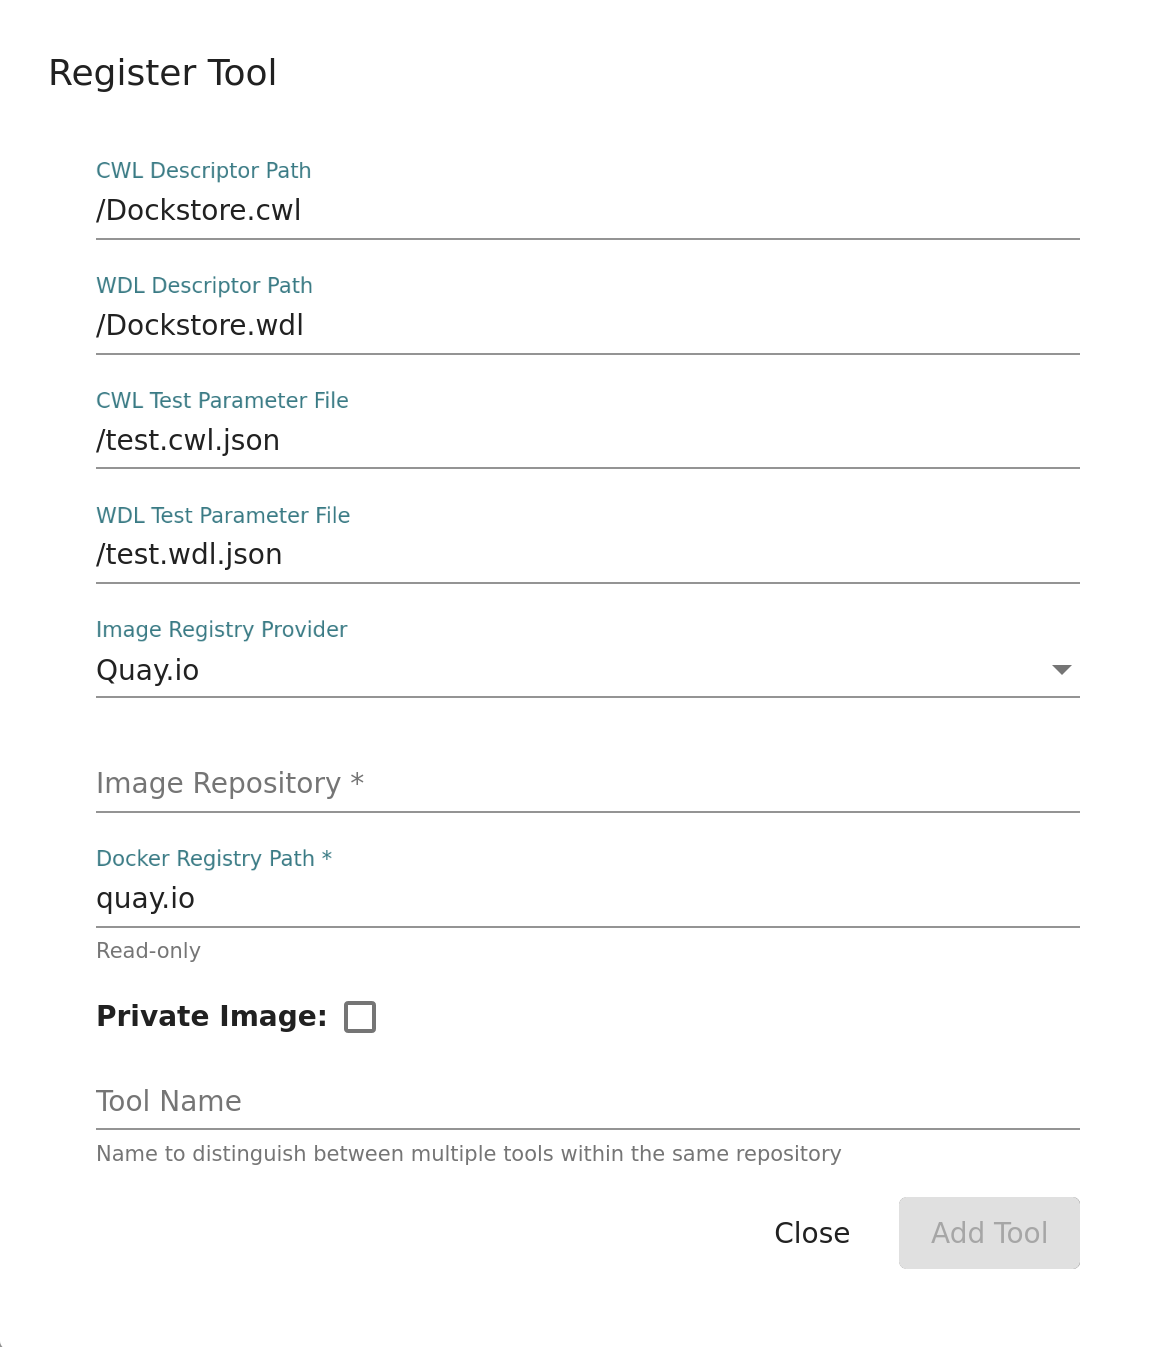
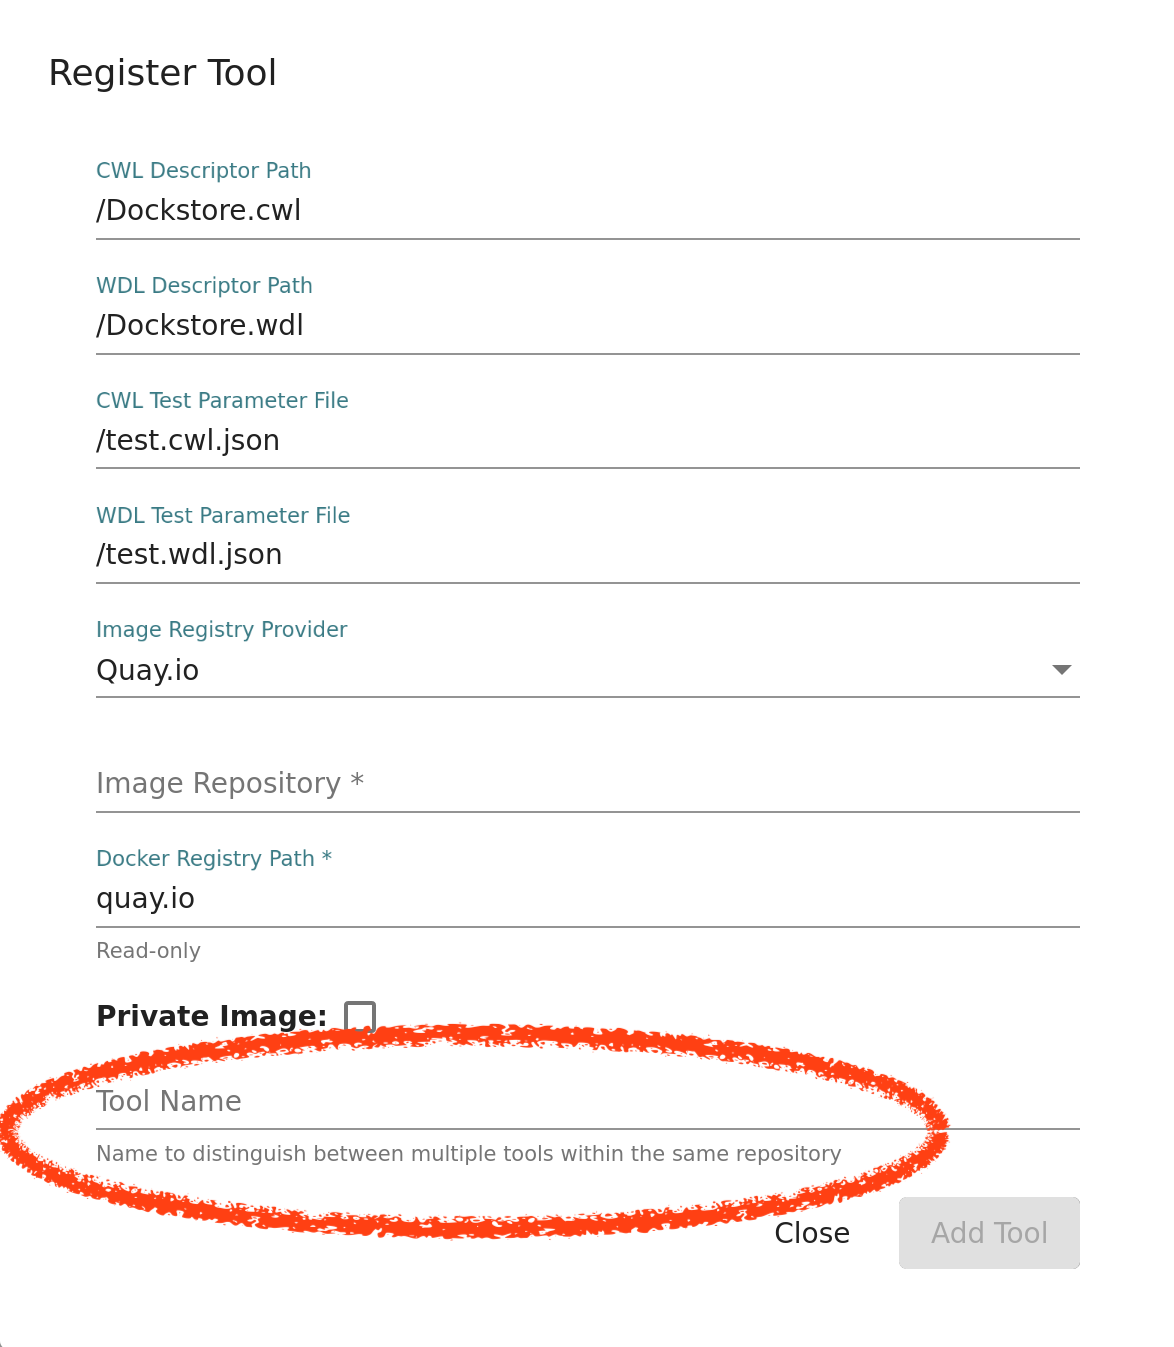
Edit an image for clarity, remove old examples, better templates

Changed region(s): [[0.0, 0.7483, 0.8279, 0.9354]]

diff --git a/docs/getting-started/github-apps/github-apps.rst b/docs/getting-started/github-apps/github-apps.rst
@@ -35,7 +35,7 @@ creating a new release, the GitHub app issues notifications.
 Why have a Dockstore GitHub App?
 --------------------------------
 
-Without a GitHub app, Dockstore does not know when you have modified a GitHub
+Without a GitHub App, Dockstore does not know when you have modified a GitHub
 repository.
 
 For example, take the case when you first add a workflow to Dockstore
@@ -48,7 +48,7 @@ to the GitHub repo, and manually refreshing the tool/workflow by either clicking
 the Refresh button or making an API call to the Dockstore API.
 
 Due to the manual nature of this process, it is easy for Dockstore to get out of
-sync with the linked GitHub repository.
+sync with the linked GitHub repository if the Dockstore GitHub App is not being used.
 
 How the Dockstore GitHub App works
 ----------------------------------
@@ -86,52 +86,32 @@ Workflow YML File
 ++++++++++++++++++
 For a workflow, the ``.dockstore.yml`` has the following general structure:
 
-.. include:: /assets/templates/workflows/barebones-.dockstore.yml
+.. include:: /assets/templates/workflows/template-minimum.dockstore.yml
   :code: yaml
 
-As an example, here is a filled-out ``.dockstore.yml`` for a single CWL workflow.  Note that the name is not present since the name field is optional when only a single workflow is involved.
+As an example, here is a filled-out ``.dockstore.yml`` for a single WDL workflow which happens to have more than one test parameter file.  Note that the name is not present since the name field is optional when only a single workflow is involved.
 
-.. code:: yaml
-
-   version: 1.2
-   workflows:
-      - subclass: CWL
-        primaryDescriptorPath: /Dockstore.cwl
-        testParameterFiles:
-            - /test/dockstore.cwl.json
-
-A common pattern seen on Dockstore is GitHub repositories that store many workflows. The below ``.dockstore.yml``
-has two entries for workflows. Notice that each entry uses a different name. Names are required if you want 
-multiple workflows registered on Dockstore from a single GitHub repository. The names must be unique between
-entries of the `workflows` array. For each unique name present, an entry will be created on Dockstore.
+.. include:: /assets/templates/workflows/example-1-noname.yml
+  :code: yaml
 
 .. important:: Though the **name** field is optional when a ``.dockstore.yml`` has one workflow in it,
     it must be used when a ``.dockstore.yml`` has multiple workflows in it. Each entry within a ``.dockstore.yml``
     file corresponds to a unique entry on Dockstore.
 
-.. include:: /assets/templates/workflows/barebones-multiple.dockstore.yml
-  :code: yaml
-
-For more examples, please see :doc:`our .dockstore.yml templates and examples for workflows</assets/templates/workflows/workflows>`.
+For more examples, including multi-workflow examples and a complete breakdown of all possible fields, please see :doc:`our .dockstore.yml templates and examples for workflows</assets/templates/workflows/workflows>`.
 
 Tool YML File
 +++++++++++++
-The ``.dockstore.yml`` file for a tool is very similiar in structure to that of a workflow. Here's a simple example:
+The ``.dockstore.yml`` file for a tool is very similiar in structure to that of a workflow.
 
-.. code:: yaml
+.. include:: /assets/templates/tools/template-minimum.dockstore.yml
+  :code: yaml
 
-   version: 1.2
-   tools:
-      - subclass: CWL
-        primaryDescriptorPath: /Dockstore.cwl
-        testParameterFiles:
-            - /test.json
-
-For more examples, please see :doc:`our .dockstore.yml templates and examples for tools</assets/templates/tools/tools>`.
+For more examples, including multi-workflow examples and a complete breakdown of all possible fields, please see :doc:`our .dockstore.yml templates and examples for tools</assets/templates/tools/tools>`.
 
 Service YML File
 +++++++++++++++++
-A template ``.dockstore.yml`` file for registering services, with explanations in the comments, can be found in our :doc:`Service 1.2 Template </assets/templates/template>`. For more info on services and registering them, check out our :doc:`Getting Started with Services </getting-started/getting-started-with-services>`.
+The ``.dockstore.yml`` for a service will depend heavily on the nature of the service it describes. A template ``.dockstore.yml`` file for registering services, with explanations in the comments, can be found in our :doc:`Service 1.2 Template </assets/templates/template>`. For more info on services and registering them, check out our :doc:`Getting Started with Services </getting-started/getting-started-with-services>`.
 
 See Also
 --------

diff --git a/docs/getting-started/github-apps/migrating-tools-to-github-apps.rst b/docs/getting-started/github-apps/migrating-tools-to-github-apps.rst
@@ -45,14 +45,8 @@ Let's say we have the following CWL tool registered on Dockstore that came from 
 
 As noted in our other documentation, create a ``.dockstore.yml`` file in the root directory of the branch you want to migrate (in this example, it's the master branch) in your repository. The file should look like the following:
 
-.. code:: yaml
-
-   version: 1.2
-   tools:
-      - subclass: CWL
-        primaryDescriptorPath: /Dockstore.cwl
-        testParameterFiles:
-            - /test.json
+.. include:: /assets/templates/tools/example-1-noname.yml
+  :code:
 
 The information above was filled out using the following:
 
@@ -65,38 +59,24 @@ The ``name`` Field
 
 If you have more than one tool in the same repository, the ``name`` field must be filled out for at least one of the tools to ensure that the tool paths are unique.
 
-During the original registration for your tool, you may have filled out the ``Tool Name`` field shown in the picture below.
+If you registered your tool using the Web UI, you may have filled out the ``Tool Name`` field shown in the picture below.
 
 .. figure:: /assets/images/docs/tool-name-field.png
    :alt: Tool name field
    :width: 60 %
 
 This field is required when you want to register multiple tools from the same repo or provide multiple languages for your tool, but you may have filled it out for other reasons. 
-To check if the tool you want to migrate has a tool name, select the tool and look at the title on top as shown in the picture below.
-
-The title consists of:
+To check if the tool you want to migrate has a tool name, select the tool's entry on Dockstore and look at the title on top. The title consists of:
 ``<image registry>/<organization name>/<repository name>/<optional tool name>:<version name>``
 
 If you see a tool name inserted, you must include the name field in your ``/.dockstore.yml``.
 
-.. code:: yaml
+.. include:: /assets/templates/tools/example-2-name.yml
+  :code:
 
-   version: 1.2
-   tools:
-      - subclass: CWL
-        primaryDescriptorPath: /Dockstore.cwl
-        testParameterFiles:
-            - /test.json
-        name: optional-name
+If you have multiple tools registered on Dockstore that stem from the same GitHub repo, a single ``.dockstore.yml`` can be used to convert them. For examples of this, check out our :doc:`template .dockstore.yml files <assets/templates/tools/tools>`
 
-If you have multiple tools registered on Dockstore that stem from the same GitHub repo, a single ``.dockstore.yml`` can be used to convert them.
-Again, you need to check for the ``Tool Name`` field being set because it's needed for multi tool repositories to ensure that the tool paths on Dockstore are unique.
-
-Let's say we want to convert these two tools that come from this `repository <https://github.com/dockstore/dockstore-tool-bamstats>`__.
-
-.. image:: /assets/images/docs/github-apps-multiple-tools.png
-
-.. image:: /assets/images/docs/github-apps-multiple-tools-with-name.png
+.. decided to remove /assets/images/docs/github-apps-multiple-tools.png and /assets/images/docs/github-apps-multiple-tools-with-name.png as the filenames within them are a little confusing; may be worth doing something like that but with globalAligner and localAligner later
 
 Your New Entry in Dockstore
 ---------------------------

diff --git a/docs/assets/templates/workflows/workflows.rst b/docs/assets/templates/workflows/workflows.rst
@@ -2,19 +2,31 @@
 ====================================================
 Several templates and examples are provided here for you to reference for your own .dockstore.yml files. The last example provides a complete explanation of the possible fields and values you can use.
 
+.. filled-out examples based on DataBiosphere/analysis_pipeline_wdl
+
 Simple generic template for a workflow
 --------------------------------------
-.. include:: /assets/templates/workflows/barebones-.dockstore.yml
+.. include:: /assets/templates/workflows/template-minimum.dockstore.yml
+  :code:
+
+Filled-out example of a single workflow without a name
+------------------------------------------------------
+.. include:: /assets/templates/workflows/example-1-noname.yml
+  :code:
+
+Filled-out example of a single workflow with a name
+---------------------------------------------------
+.. include:: /assets/templates/workflows/example-2-name.yml
   :code:
 
 Filled-out example of multiple workflows in the same repository
 ---------------------------------------------------------------
-.. include:: /assets/templates/workflows/barebones-multiple.dockstore.yml
+.. include:: /assets/templates/workflows/example-3-multiworkflow-multiauthor.dockstore.yml
   :code:
 
 Full template with explanation of all available fields
 ------------------------------------------------------
-.. include:: /assets/templates/workflows/.dockstore.yml
+.. include:: /assets/templates/workflows/template-maximum.dockstore.yml
   :code:
   
 
@@ -24,5 +36,5 @@ See Also
 --------
 
 * :doc:`.dockstore.yml templates for registering services </assets/templates/services/services>`
-* :doc:`.dockstore.yml templates for registering tools </assets/templates/tools/tools>`
+* :doc:`.dockstore.yml templates for registering workflows </assets/templates/workflows/workflows>`
 * :doc:`Other documentation regarding the GitHub App </getting-started/github-apps/github-apps-landing-page>`

diff --git a/docs/assets/templates/tools/tools.rst b/docs/assets/templates/tools/tools.rst
@@ -2,19 +2,31 @@
 ================================================
 Several templates and examples are provided here for you to reference for your own .dockstore.yml files. The last example provides a complete explanation of the possible fields and values you can use.
 
+.. The globalAligner/localAligner example does not seem to correspond to any entry on Dockstore. It's been on github-apps.rst since 2020 (commit 2ee9fb2b10d7b68fbf1481d066651cb8dad855ae).
+
 Simple generic template for a tool
 ----------------------------------
-.. include:: /assets/templates/tools/barebones-.dockstore.yml
+.. include:: /assets/templates/tools/template-minimum.dockstore.yml
+  :code:
+
+Filled-out example of a single tool without a name
+--------------------------------------------------
+.. include:: /assets/templates/tools/example-1-noname.yml
+  :code:
+
+Filled-out example of a single tool with a name
+-----------------------------------------------
+.. include:: /assets/templates/tools/example-2-name.yml
   :code:
 
 Filled-out example of multiple tools in the same repository
 -----------------------------------------------------------
-.. include:: /assets/templates/tools/barebones-multiple.dockstore.yml
+.. include:: /assets/templates/tools/example-3-multitool-multiauthor.dockstore.yml
   :code:
 
 Full template with explanation of all available fields
 ------------------------------------------------------
-.. include:: /assets/templates/tools/.dockstore.yml
+.. include:: /assets/templates/tools/template-maximum.dockstore.yml
   :code:
   
 

diff --git a/docs/assets/templates/template.rst b/docs/assets/templates/template.rst
@@ -21,6 +21,17 @@ Tips and tricks
         tags:
             - /.*/
 
+* You can use this regex pattern to include tags that only start with ``localaligner`` and the branches named ``develop`` and ``master``:
+
+.. code:: yaml
+    
+    filters:
+        branches:
+            - develop
+            - master
+        tags:
+            - /localaligner\/.*/
+
 .. toctree::
     :hidden:
 
